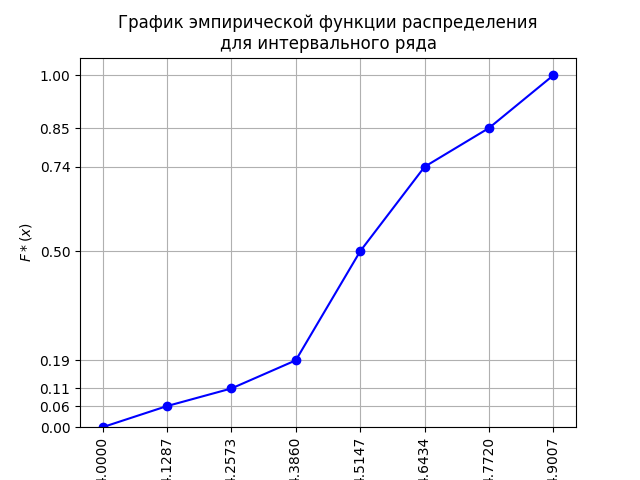
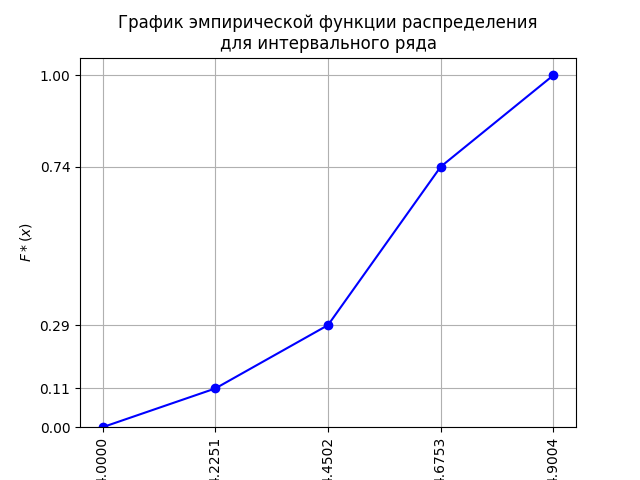
123

diff --git a/Теор.вер/Laba_5/3.py b/Теор.вер/Laba_5/3.py
@@ -3,19 +3,19 @@ from math import sqrt
 try:
     import matplotlib.pyplot as plt
 
-except:
+except ModuleNotFoundError:
     system ("pip install matplotlib")
     print ("\n\n")
     print (" Все необходимые библиотеки установлены, запустите программу заново\n")
     system ("pause")
     exit (0)
 
-
 def make_intervals () -> dict:
     global h
     global num_of_intervals
     global min_x
     global max_x
+
     intervals = {}
     print (" Введите количество интервалов : \n")
     num_of_intervals = int (input("> "))

diff --git a/electronic_graphs.py b/electronic_graphs.py
@@ -1,0 +1,9 @@
+import matplotlib.pyplot as plt
+
+plt.grid()
+plt.xlabel (r'$x$')
+plt.ylabel(r'$F*(x)$')
+plt.title ("График эмпирической функции распределения\nдля интервального ряда")
+plt.ylim(0,3)
+plt.plot ([70,80,90,100,110,120,130],[2.54,2.54,2.54,2.54,2.54,2.54,2.54],'-bo')
+plt.show()
